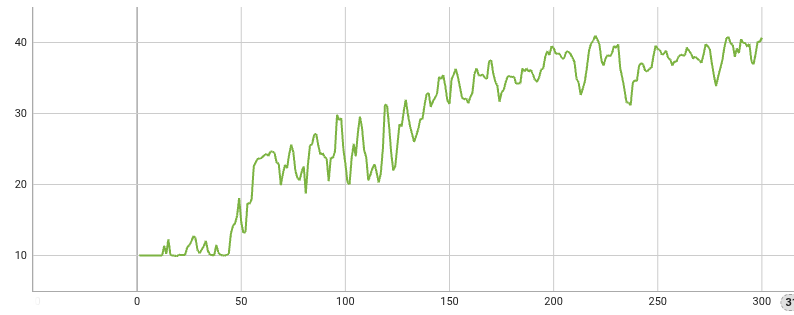
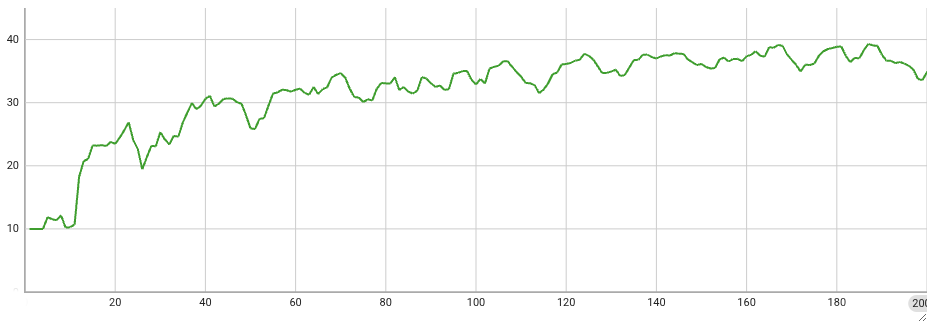
update local training config

diff --git a/nvflare/edge/tools/edge_recipe.py b/nvflare/edge/tools/edge_recipe.py
@@ -108,7 +108,7 @@ class DeviceManagerConfig:
         self.min_hole_to_fill = min_hole_to_fill
         # check if min_hole_to_fill is smaller than device_selection_size
         if min_hole_to_fill > device_selection_size:
-            raise ValueError("min_hole_to_fill needs to be smaller than device_selection_size")
+            raise ValueError("min_hole_to_fill needs to be smaller than or equal to device_selection_size")
         self.device_reuse = device_reuse
         self.const_selection = const_selection
 

diff --git a/examples/advanced/edge/jobs/pt_job_adv.py b/examples/advanced/edge/jobs/pt_job_adv.py
@@ -36,12 +36,12 @@ def main():
     device_speed = {"mean": [0.0], "std": [0.0]}
     global_lr = 0.1
     num_updates_for_model = 20
-    max_model_version = 300
+    max_model_version = 200
     max_model_history = 100
     min_hole_to_fill = 10
     eval_frequency = 1
-    local_batch_size = 32
-    local_epochs = 1
+    local_batch_size = 10
+    local_epochs = 4
     local_lr = 0.1
     local_momentum = 0.0
 
